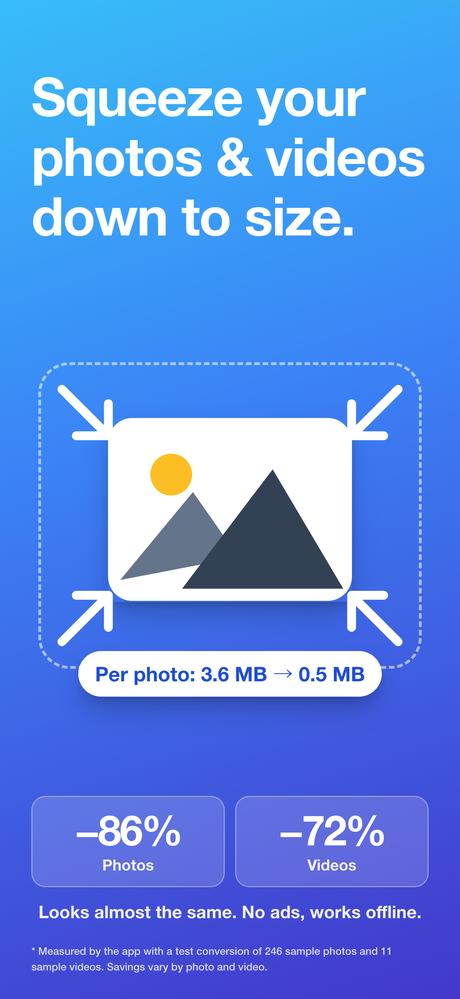
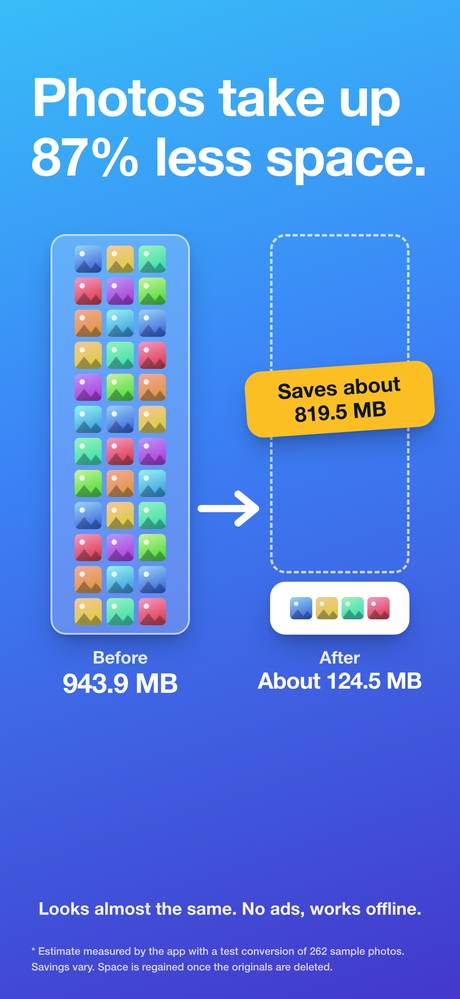
公開中の版に合わせて説明とポリシーを直す（アルバムダイエット 1.4.1 ほか）
- アルバムダイエット: 1.4.1 の新しい機能（変換せずに削除・容量で選ぶ・休みながら変換・写真を画面いっぱいに拡大）を日英に足し、
  画像をストアの今の10枚に。ポリシー（日英）の写真への書き込みの用途に、片付けと削除・アルバムへの入れ直しを書く
- ABループレイ: ポリシー（日英）の動画タブ・タグの自動の書き込み・お気に入りの区間に「1.4 以降」を書き添える（公開中は 1.3.0）。
  説明に、キーも曲ごとに覚える・お気に入りとプレイリスト・書き出し・曲の全体の地図を足す
- 山じたく: 引き返す時刻・「もしものとき」・自分の道具の重さと写真・出発3日前の知らせを足し、作り直しても残る項目を正確に
- 献立: まとめて計画できるのは最大14日分、ごはん・パンと材料費の設定を実装どおりに、iPhone・iPad。
  ポリシー（日英）: 広告の同意の画面はアプリから開き直せないので、変える方法を事実どおりに書く
- 冷凍図鑑: 冷凍庫から今日の一品に「そのまま使えるもの」を足す
- Counter1234: 設定の名前（増加数の設定・購入を復元する）、ポリシーに「広告のプライバシー設定」、iPhone・iPad
- SplitBill: ポリシー（日英）にレートを取り直すタイミング、説明に過去の精算の復元
- トップ（日英）: ABループレイ・山じたくのカードを公開中の機能に、保存先は端末（iCloud で同期するアプリはご自身の iCloud にも）
- サイトマップ: 今日中身が変わったページの lastmod を 2026-10-11 に

diff --git a/albumdiet/index.html b/albumdiet/index.html
@@ -147,14 +147,14 @@
 
 <h2>画面</h2>
 <div class="shots">
-  <a href="shots/01.png"><img src="thumbs/01.jpg" alt="写真も動画も、ぎゅっと小さく" loading="lazy" width="322" height="700"></a>
-  <a href="shots/02.png"><img src="thumbs/02.jpg" alt="押す前に、いくら空くか分かる" loading="lazy" width="322" height="700"></a>
+  <a href="shots/01.png"><img src="thumbs/01.jpg" alt="写真の容量、87%減（見本の写真262枚で試した見込み）。見た目はほとんどそのまま" loading="lazy" width="322" height="700"></a>
+  <a href="shots/02.png"><img src="thumbs/02.jpg" alt="3ステップで、写真を小さく。1枚ずつ選ばなくても、小さくできる写真をまとめて見つけます" loading="lazy" width="322" height="700"></a>
   <a href="shots/03.png"><img src="thumbs/03.jpg" alt="似た写真も、まとめて片付け。残す1枚を選んで、あとはひと押し" loading="lazy" width="322" height="700"></a>
-  <a href="shots/04.png"><img src="thumbs/04.jpg" alt="撮影日から、まとめて選ぶ。日ごと・月ごとにひと押しで" loading="lazy" width="322" height="700"></a>
-  <a href="shots/05.png"><img src="thumbs/05.jpg" alt="見くらべてから、決める。元と小さくしたものを並べて確かめる" loading="lazy" width="322" height="700"></a>
-  <a href="shots/06.png"><img src="thumbs/06.jpg" alt="連写は、1枚だけ残す" loading="lazy" width="322" height="700"></a>
-  <a href="shots/07.png"><img src="thumbs/07.jpg" alt="元を消すかは、あなたが決める。写真は「残す」が最初の設定" loading="lazy" width="322" height="700"></a>
-  <a href="shots/08.png"><img src="thumbs/08.jpg" alt="撮影日も場所も、そのまま" loading="lazy" width="322" height="700"></a>
+  <a href="shots/04.png"><img src="thumbs/04.jpg" alt="撮影日から、まとめて選ぶ。日ごと・月ごとに、ひと押しで" loading="lazy" width="322" height="700"></a>
+  <a href="shots/05.png"><img src="thumbs/05.jpg" alt="見くらべてから、決める。元と小さくしたものを並べて確かめられます" loading="lazy" width="322" height="700"></a>
+  <a href="shots/06.png"><img src="thumbs/06.jpg" alt="連写は、1枚だけ残す。おすすめの1枚を残して片付けます" loading="lazy" width="322" height="700"></a>
+  <a href="shots/07.png"><img src="thumbs/07.jpg" alt="元を消すかは、あなたが決める。写真は「残す」が最初の設定。消しても30日間は戻せます" loading="lazy" width="322" height="700"></a>
+  <a href="shots/08.png"><img src="thumbs/08.jpg" alt="撮影日も場所も、そのまま。写真アプリの並び順や地図もそのままです" loading="lazy" width="322" height="700"></a>
   <a href="shots/09.png"><img src="thumbs/09.jpg" alt="できること、ぜんぶ" loading="lazy" width="322" height="700"></a>
   <a href="shots/10.png"><img src="thumbs/10.jpg" alt="動画も、まとめて軽く" loading="lazy" width="322" height="700"></a>
 </div>
@@ -176,6 +176,19 @@
 やってみたら思ったより減らなかった、という無駄な画質の低下が起きないようにしています。
 </p>
 
+<h2>まとめて選んで、確かめてから変換できます</h2>
+<p>
+自分で選ぶときは、「写真を選んで小さくする」の「写真を選ぶ」「大きい順で」「撮影日で」「アルバムから選ぶ」を使います。
+「容量で選ぶ（○MB以上）」なら、1 MB以上・3 MB以上など、<strong>決めた大きさ以上の写真をまとめて選べます</strong>。
+重い写真を1枚ずつ押して選ばずに済みます。
+</p>
+<p>
+選んだ写真は「1枚ずつ見る」で確かめられます。写真の詳しい画面で写真を押すと、画面いっぱいに拡大して、ピントや細かいところを見られます。
+並べてみて、小さくするより要らなかった写真は、「選んだ写真」の<strong>「変換せずに削除」</strong>でまとめて削除できます。
+消すのは丸印のついた写真だけなので、残したいものは丸印を外してから押します。
+消したものは写真アプリの「最近削除した項目」に30日間残ります。
+</p>
+
 <h2>連写した写真は、1枚だけ残せます</h2>
 <p>
 シャッターを押しっぱなしにして撮った組（バースト）は、写真アプリでは1枚に見えています。
@@ -183,8 +196,8 @@
 </p>
 <p>
 1枚だけ残してあとを消せば、<strong>画質はそのままで</strong>容量が減ります。
-どれを残すかは iPhone のおすすめから選ばれ、1組ずつ見て選び直せます。
-お気に入りと編集した写真は、消さずに守ります。
+残す1枚は、ふだんは iPhone のおすすめから選ばれます（設定で最初の1枚・最後の1枚にもできます）。
+1組ずつ見て選び直すこともできます。お気に入りと編集した写真は、消さずに守ります。
 </p>
 
 <h2>消してよいものも、まとめて見つけます</h2>
@@ -213,7 +226,9 @@
   <li><strong>取り消し</strong>：写真の変換は、あとから取り消せます</li>
   <li><strong>個人情報の削除</strong>：位置情報などを、画質を落とさずに消したコピーを作れます</li>
   <li><strong>似た写真・スクリーンショット・Live Photos</strong>：画質はそのままで、要らない分だけを片付けます</li>
-  <li><strong>選びかた</strong>：撮影日で・大きい順で・アルバムから。一度小さくしたものは選ぶ画面に出しません</li>
+  <li><strong>選びかた</strong>：撮影日で・大きい順で・アルバムから。写真は容量（1 MB以上・3 MB以上など）でもまとめて選べます。一度小さくしたものは選ぶ画面に出しません</li>
+  <li><strong>変換せずに削除</strong>：選んだ写真のうち、小さくするより要らなかったものを、そのまままとめて削除できます</li>
+  <li><strong>休みながら変換</strong>：たくさん続けて変換するときは、「5分ごとに3分休憩しながら進める」で本体を休ませながら進められます</li>
   <li><strong>空きの表示</strong>：いまの iPhone の空きと、このアプリで空けた量。ホーム画面とロック画面のウィジェットでも</li>
   <li><strong>共有ボタン対応</strong>：写真アプリの共有ボタンから直接渡せます</li>
 </ul>
@@ -251,6 +266,13 @@ Pro の購入と確認だけは、iOS の App Store の仕組みを通して App
 <p>
 使えます。「iPhone のストレージを最適化」を有効にしている場合は、原本を
 ダウンロードしてから処理するため、枚数が多いと時間と通信量がかかります。
+</p>
+
+<h3>たくさん続けて変換するとき、本体を休ませられますか</h3>
+<p>
+できます。ふだんは、写真の変換も動画の圧縮も、休まずに本体を動かし続けます。
+変換中の画面で「5分ごとに3分休憩しながら進める」を押すと、5分進めるごとに3分休み、
+休憩が終わると自動で続きから進みます。次の休憩までと休憩の残りは、時計で出ます。
 </p>
 
 <h3>無料でどこまで使えますか</h3>

diff --git a/albumdiet/en/index.html b/albumdiet/en/index.html
@@ -93,14 +93,14 @@ The basics are free (up to 20 photos and 1 video a day), with no ads. Pro, which
 
 <h2>Screens</h2>
 <div class="shots">
-  <a href="shots/01.png"><img src="thumbs/01.jpg" alt="Squeeze your photos &amp; videos down to size" loading="lazy" width="322" height="700"></a>
-  <a href="shots/02.png"><img src="thumbs/02.jpg" alt="Know how much you'll free up before you tap" loading="lazy" width="322" height="700"></a>
+  <a href="shots/01.png"><img src="thumbs/01.jpg" alt="Photos take up 87% less space (estimated with 262 sample photos). Looks almost the same" loading="lazy" width="322" height="700"></a>
+  <a href="shots/02.png"><img src="thumbs/02.jpg" alt="Shrink photos in 3 steps. No need to pick one by one — the app finds photos that can shrink" loading="lazy" width="322" height="700"></a>
   <a href="shots/03.png"><img src="thumbs/03.jpg" alt="Similar shots, tidied at once — keep the best one and tidy the rest" loading="lazy" width="322" height="700"></a>
   <a href="shots/04.png"><img src="thumbs/04.jpg" alt="Pick by date taken — select a whole day or month in one tap" loading="lazy" width="322" height="700"></a>
   <a href="shots/05.png"><img src="thumbs/05.jpg" alt="Compare, then decide — see the original and the smaller version side by side" loading="lazy" width="322" height="700"></a>
-  <a href="shots/06.png"><img src="thumbs/06.jpg" alt="Bursts: keep just one" loading="lazy" width="322" height="700"></a>
-  <a href="shots/07.png"><img src="thumbs/07.jpg" alt="You decide about originals — photos start on “Keep”" loading="lazy" width="322" height="700"></a>
-  <a href="shots/08.png"><img src="thumbs/08.jpg" alt="Date &amp; place stay the same" loading="lazy" width="322" height="700"></a>
+  <a href="shots/06.png"><img src="thumbs/06.jpg" alt="Bursts: keep just one — keep the best shot, tidy up the rest" loading="lazy" width="322" height="700"></a>
+  <a href="shots/07.png"><img src="thumbs/07.jpg" alt="You decide about originals — photos start on “Keep”, and deleted items can be restored for 30 days" loading="lazy" width="322" height="700"></a>
+  <a href="shots/08.png"><img src="thumbs/08.jpg" alt="Date &amp; place stay the same — your Photos order and map stay just as they were" loading="lazy" width="322" height="700"></a>
   <a href="shots/09.png"><img src="thumbs/09.jpg" alt="Everything it can do" loading="lazy" width="322" height="700"></a>
   <a href="shots/10.png"><img src="thumbs/10.jpg" alt="Videos, lighter in bulk" loading="lazy" width="322" height="700"></a>
 </div>
@@ -123,6 +123,21 @@ you've already made smaller are left out of the count from the start.
 <p>
 That way you don't give up quality for nothing, only to find that less space was
 freed than you expected.
+</p>
+
+<h2>Choose in bulk, and check before you convert</h2>
+<p>
+To choose photos yourself, use “Choose photos”, “Largest first”, “By date” or “Choose from albums”
+under “Choose photos to shrink”.
+With “By size (X MB or more)”, you can <strong>select every photo at or above a size you pick</strong> — 1 MB, 3 MB and so on —
+in one go, instead of tapping heavy photos one at a time.
+</p>
+<p>
+You can look over the photos you chose with “View one by one”. On a photo's detail screen, tap the photo to view it
+full screen and zoom in to check the focus and fine detail.
+If some turn out to be photos you'd rather get rid of than shrink, “Delete Without Converting” in “Selected photos”
+deletes them all at once. Only photos whose circle is checked are deleted, so uncheck any you want to keep first.
+Deleted items stay in “Recently Deleted” in the Photos app for 30 days.
 </p>
 
 <h2>Keep just one shot from each burst</h2>
@@ -168,7 +183,9 @@ Without Pro, tidying up in bulk covers 10 items a day. Deleting items one at a t
   <li><strong>Undo</strong>: photo conversions can be undone afterwards</li>
   <li><strong>Remove personal data</strong>: make a copy with location and similar details removed, without lowering the quality</li>
   <li><strong>Similar photos, screenshots, Live Photos</strong>: clear out only what you don't need, with quality unchanged</li>
-  <li><strong>Ways to choose</strong>: by date taken, largest first, or from albums. Anything you've already made smaller isn't shown when choosing</li>
+  <li><strong>Ways to choose</strong>: by date taken, largest first, or from albums. Photos can also be selected in bulk by size (1 MB or more, 3 MB or more and so on). Anything you've already made smaller isn't shown when choosing</li>
+  <li><strong>Delete Without Converting</strong>: delete the selected photos you'd rather get rid of than shrink, all at once</li>
+  <li><strong>Breaks while converting</strong>: for long runs, “Take a 3-min break every 5 min” lets your iPhone rest as it goes</li>
   <li><strong>Free space at a glance</strong>: your iPhone's current free space and how much this app has freed — also as Home Screen and Lock Screen widgets</li>
   <li><strong>Share button</strong>: send photos and videos straight to the app from the Share button in the Photos app</li>
 </ul>
@@ -207,6 +224,13 @@ and there is no server. Only buying Pro, and checking whether you have it, goes 
 <p>
 Yes. If “Optimize iPhone Storage” is turned on, the originals are downloaded before they
 are processed, so a large number of items takes time and uses data.
+</p>
+
+<h3>Can my iPhone take breaks during a long conversion?</h3>
+<p>
+Yes. Normally, converting photos and compressing videos keep your iPhone working without a pause.
+Tap “Take a 3-min break every 5 min” on the converting screen, and it rests for 3 minutes after every 5 minutes of work,
+then picks up where it left off on its own. Clocks show the time until the next break and how much of the break is left.
 </p>
 
 <h3>How much can I do for free?</h3>

diff --git a/ablooplay/en/privacy.html b/ablooplay/en/privacy.html
@@ -79,14 +79,15 @@
 
 
 <h1>Privacy Policy</h1>
-<p class="tagline">ABLooplay (iOS) / Last updated October 10, 2026</p>
+<p class="tagline">ABLooplay (iOS) / Last updated October 11, 2026</p>
 <p class="note">This is an English translation of the <a href="../privacy.html" hreflang="ja">Japanese privacy policy</a>. If the two differ, the Japanese version prevails.</p>
 
 <div class="card">
 <strong>Summary</strong><br>
 ABLooplay <strong>does not collect any information about its users</strong>. Audio files you import and your own videos never leave your device.
 The app goes online <strong>only to search for and download podcasts and to use YouTube videos</strong>, and payment for the paid features (ABLooplay Pro) is handled by Apple.
-There is no account registration, and the app contains no advertising, analytics or tracking.
+There is no account registration, and the app contains no advertising, analytics or tracking.<br>
+The Videos tab (YouTube videos and My Videos), filling in tags automatically, and favorite sections are features of version 1.4 and later. Earlier versions do not have them.
 </div>
 
 <h2>1. Information collected</h2>
@@ -106,7 +107,7 @@ a server run by the developer, and the developer never receives their contents.
   <li><strong>Searching for shows</strong>: the search terms you enter are sent to Apple's search service (iTunes Search API), and a list of shows is received</li>
   <li><strong>Getting episodes</strong>: the RSS feed and audio files of the show you choose are downloaded from that show's publisher. As with any ordinary web connection, your IP address and similar information reach the publisher</li>
 </ul>
-<h3>YouTube videos (YouTube API Services)</h3>
+<h3>YouTube videos (YouTube API Services, version 1.4 and later)</h3>
 <p>
 In the Videos tab, YouTube videos are played with the <strong>YouTube API Services</strong> (YouTube's embedded player).
 By using the features that play YouTube videos, you agree to be bound by the <a href="https://www.youtube.com/t/terms">YouTube Terms of Service</a>.
@@ -131,11 +132,11 @@ so <strong>the app cannot see anything other than what you choose</strong>.
 <ul>
   <li><strong>Copying</strong>: files you choose are copied into the app. This is because, if the app only remembered where a file was, it could no longer be played once the actual iCloud Drive file was removed from the device</li>
   <li><strong>Rewriting</strong>: when you correct the title, artist, album or track number, the tags of the copy inside the app are rewritten. The original file is not touched</li>
-  <li><strong>Filling in tags automatically</strong>: for MP3 files inside the app whose title, artist or album tags (ID3) are empty, the file name and folder names are written into those tags on the device. Only empty fields are written</li>
+  <li><strong>Filling in tags automatically</strong> (version 1.4 and later): for MP3 files inside the app whose title, artist or album tags (ID3) are empty, the file name and folder names are written into those tags on the device. Only empty fields are written</li>
   <li><strong>Location</strong>: files inside the app are visible in the Files app as <em>On My iPhone &gt; ABLooplay</em>. You can take them out at any time</li>
   <li><strong>Music library</strong>: iOS asks for your permission only when you use “From Music Library”. Of the songs you choose, those without copy protection are copied into the app. The contents of your library are never sent outside the device</li>
   <li><strong>Videos</strong>: from a video you choose with “From Videos in Photos” or one shared from another app, <strong>only the audio is extracted</strong>, on the device, and kept in the app. The picture is not kept, and the original video is not touched. Because Photos goes through the iOS picker, the app does not ask for access to your photo library</li>
-  <li><strong>My Videos</strong>: videos (mp4, m4v, mov, 3gp) that you put in the ABLooplay folder with the Files app are listed where they are under “My Videos” in the Videos tab and played only on the device. Their waveforms and thumbnails are also made on the device. Deleting a video from the list also deletes its file</li>
+  <li><strong>My Videos</strong> (version 1.4 and later): videos (mp4, m4v, mov, 3gp) that you put in the ABLooplay folder with the Files app are listed where they are under “My Videos” in the Videos tab and played only on the device. Their waveforms and thumbnails are also made on the device. Deleting a video from the list also deletes its file</li>
   <li><strong>Scripts and subtitles</strong>: the app reads timed text files (LRC) and subtitle files (SRT, VTT) that you choose, and lesson text that you paste in, and keeps their contents only on the device. Sentences you type for dictation are only checked against the script on the device; they are neither saved nor sent</li>
   <li><strong>Exporting</strong>: “Export This Section” and “Export Sections as LRC” only create a file on the device and pass it to the iOS share sheet. You choose where it goes; the app itself never sends it</li>
   <li><strong>Deletion</strong>: when you delete the app, the files imported into it are deleted along with it</li>

diff --git a/yamajitaku/en/index.html b/yamajitaku/en/index.html
@@ -142,10 +142,13 @@ whether that mountain, on that day, is in spring, summer, autumn or winter.
   <li>Three levels — essential, recommended and good to have — plus a one-line note on why each item is on the list</li>
   <li>Set the number of changes of clothes all at once: “no change”, “one set of underwear only” or “change every day”</li>
   <li>An estimate of the weight you carry, checked against your body weight (tent trips use a separate standard)</li>
+  <li>Weigh your own gear once, and later trips use that weight too. Add a photo to an item and a small thumbnail shows in its row (the same photo appears on later trips)</li>
   <li>For 4 nights and 5 days or longer, it points out that the plan has you carrying everything, and shows what you can cut by using hut meals and hut shops</li>
   <li>Meal planning for tent trips. Stack up foods and the weight and calories are totaled</li>
   <li>A climbing plan as a PDF. The mountain name, dates, itinerary and gear come from the trip; you only add the members and emergency contacts</li>
   <li>Decide who you will check in with after the hike and by when, and get a message ready for the person staying behind. A notification comes one hour before the deadline</li>
+  <li>A suggested turnaround time, worked out from that day’s sunset and your walking time. A notification comes at the time you set</li>
+  <li>An “If something happens” (<span lang="ja">もしものとき</span>) screen that fills in, from the trip, what to tell 110 (police) or 119 (fire and ambulance): the mountain, when and where you set out, the day’s plan, the number of people and where the climbing plan was submitted</li>
   <li>Sunrise and sunset for each day, and a guide to when to start walking so you finish in daylight. It can also estimate walking time from a GPX file</li>
   <li>On the day of the trip, “until sunset” and the check-in deadline are shown on the Lock Screen</li>
   <li>A weather forecast adjusted to the summit altitude, and a review of your gear against the forecast (rain, snow, cold, wind)</li>
@@ -173,8 +176,8 @@ Item details and a few other places have links to search results on Amazon, Raku
 <h3>Can I change what is on the packing list?</h3>
 <p>
 Yes. You can freely add and delete items and fix their names and weights. You can add items in each category,
-and register items you type in yourself. Even if you change the conditions and rebuild the list,
-the items you have changed yourself stay as they are.
+and register items you type in yourself. Items whose name, quantity or weight you have changed, items you have checked off,
+and items you typed in yourself stay as they are even if you change the conditions and rebuild the list.
 </p>
 
 <h3>Can I use a mountain that is not in the list?</h3>
@@ -228,6 +231,7 @@ Check that notifications are turned on in the device’s Settings → <span lang
 In the app, also check that “Notify the day before” (<span lang="ja">前日に知らせる</span>) is on under Settings (<span lang="ja">設定</span>) → Before-departure reminders (<span lang="ja">出発前の知らせ</span>). Turning it off stops all the other reminders too, including the check-in deadline and the turnaround time.
 The same section lists the scheduled reminders with their dates and times.
 The day-before reminder is sent for trips that start tomorrow or later. The reminder one hour before the check-in deadline comes on the day you come down, and the turnaround reminder at that time on the day you head for the summit (if you have set a deadline or a time).
+If a trip still has items on the “to buy” (<span lang="ja">買うもの</span>) list, a reminder also comes three days before departure.
 </p>
 
 <h2>A note on safety</h2>

diff --git a/kondate/en/index.html b/kondate/en/index.html
@@ -12,7 +12,7 @@
 </script>
 <meta name="viewport" content="width=device-width, initial-scale=1">
 <title>Kondate Maker_EX — dinner menus and a shopping list</title>
-<meta name="description" content="An iPhone app for deciding today's dinner menu. Menus, favorites, notes and photos are stored on your device, and no account is needed. The app is in Japanese only.">
+<meta name="description" content="An iPhone and iPad app for deciding today's dinner menu. Menus, favorites, notes and photos are stored on your device, and no account is needed. The app is in Japanese only.">
 <link rel="alternate" hreflang="ja" href="https://tatsu456.github.io/kondate/">
 <link rel="alternate" hreflang="en" href="https://tatsu456.github.io/kondate/en/">
 <link rel="alternate" hreflang="x-default" href="https://tatsu456.github.io/kondate/">
@@ -21,7 +21,7 @@
 <meta property="og:locale" content="en_US">
 <meta property="og:url" content="https://tatsu456.github.io/kondate/en/">
 <meta property="og:title" content="Kondate Maker_EX — dinner menus and a shopping list">
-<meta property="og:description" content="An iPhone app for deciding today&#x27;s dinner menu. Menus, favorites, notes and photos are stored on your device, and no account is needed. The app is in Japanese only.">
+<meta property="og:description" content="An iPhone and iPad app for deciding today&#x27;s dinner menu. Menus, favorites, notes and photos are stored on your device, and no account is needed. The app is in Japanese only.">
 <meta property="og:image" content="https://tatsu456.github.io/assets/icon-kondate.png">
 <meta name="twitter:card" content="summary">
 <link rel="stylesheet" href="/assets/style.css?v=12234de5d0">
@@ -116,10 +116,10 @@ All 1,500 recipes are built into the app, so it works offline too.
 <h2>What it does</h2>
 <ul>
   <li>Makes a menu with one tap. Keep a dish you like and redraw only the rest</li>
-  <li>Plans any number of days at once, and makes the shopping list at the same time</li>
+  <li>Plans up to 14 days at once, and makes the shopping list at the same time</li>
   <li>Calculates a rough ingredient cost and cost ratio automatically (the cost ratio roughly shows what the ingredients cost as a share of buying the same dishes ready-made or eating out)</li>
-  <li>Lets you set the balance of plain rice and bread, and how strongly to favor seasonal ingredients</li>
-  <li>Also lets you set ingredients not to use (allergies or things you dislike), cuisines to avoid, and a limit on ingredient cost per person per day</li>
+  <li>Lets you set the balance of plain and mixed rice, how often bread comes with a Western-style main dish, and how strongly to favor seasonal ingredients</li>
+  <li>Also lets you set ingredients not to use (allergies or things you dislike), cuisines and main ingredients to avoid, a time limit for cooking the main dish, and a target ingredient cost per person per day</li>
   <li>Finds menus in reverse, starting from an ingredient that's on sale</li>
   <li>Keeps your own notes and photos for each recipe</li>
   <li>The first time you open the app, a usage guide walks you through it while you try the screens yourself</li>

diff --git a/kondate/index.html b/kondate/index.html
@@ -11,7 +11,7 @@
   gtag('config', 'G-MMGJW4XELK');
 </script>
 <meta name="viewport" content="width=device-width, initial-scale=1">
-<meta name="description" content="今日の晩ごはんの献立を決めるiPhoneアプリ。献立・お気に入り・メモ・写真は端末内に保存され、アカウント登録は要りません。">
+<meta name="description" content="今日の晩ごはんの献立を決めるiPhone・iPadアプリ。献立・お気に入り・メモ・写真は端末内に保存され、アカウント登録は要りません。">
 <title>献立メーカー_EX｜晩ごはんの献立と買い物リスト</title>
 <link rel="alternate" hreflang="ja" href="https://tatsu456.github.io/kondate/">
 <link rel="alternate" hreflang="en" href="https://tatsu456.github.io/kondate/en/">
@@ -21,7 +21,7 @@
 <meta property="og:locale" content="ja_JP">
 <meta property="og:url" content="https://tatsu456.github.io/kondate/">
 <meta property="og:title" content="献立メーカー_EX｜晩ごはんの献立と買い物リスト">
-<meta property="og:description" content="今日の晩ごはんの献立を決めるiPhoneアプリ。献立・お気に入り・メモ・写真は端末内に保存され、アカウント登録は要りません。">
+<meta property="og:description" content="今日の晩ごはんの献立を決めるiPhone・iPadアプリ。献立・お気に入り・メモ・写真は端末内に保存され、アカウント登録は要りません。">
 <meta property="og:image" content="https://tatsu456.github.io/assets/icon-kondate.png">
 <meta name="twitter:card" content="summary">
 <link rel="stylesheet" href="/assets/style.css?v=12234de5d0">
@@ -162,10 +162,10 @@
 <h2>できること</h2>
 <ul>
   <li>献立をワンタップで作成。気に入った一品は残して、それ以外だけ引き直せます</li>
-  <li>何日分でもまとめて計画でき、買い物リストが同時にできあがります</li>
+  <li>最大14日分までまとめて計画でき、買い物リストが同時にできあがります</li>
   <li>材料費と原価率の目安を自動で計算します</li>
-  <li>白ごはんとパンの割合、旬をどれくらい優先するかを設定できます</li>
-  <li>使わない食材（アレルギーや苦手なもの）・避けたいジャンル・1人1日の材料費の上限も決められます</li>
+  <li>白ごはんと混ぜご飯の割合、洋食の日にパンを出す割合、旬をどれくらい優先するかを設定できます</li>
+  <li>使わない食材（アレルギーや苦手なもの）・避けたいジャンルや主材料・主菜の調理時間の上限・1人1日の材料費の目安も決められます</li>
   <li>安売りしている食材から、逆引きで献立を探せます</li>
   <li>レシピごとに自分のメモや写真を残せます</li>
   <li>はじめて開いたときは、画面をさわりながら覚えられる使い方ガイドが案内します</li>

diff --git a/index.html b/index.html
@@ -157,7 +157,7 @@ Takayuki Takemoto と申します。アプリを作っています。
 「これができない」と言われても、それが主目的でなければ足さないことがあります。</p>
 
 <p><strong>入力したものは、できるかぎり端末から出さない。</strong>
-記録・メモ・写真は、原則としてお使いの端末の中だけに保存しています。
+記録・メモ・写真は、原則としてお使いの端末の中に保存しています（iCloud で同期するアプリでは、ご自身の iCloud にも）。
 アカウント登録を求めるアプリもありません。
 外部と通信する場合は、何をどこへ送るのかを各アプリのプライバシーポリシーに書いています。</p>
 
@@ -201,6 +201,8 @@ Takayuki Takemoto と申します。アプリを作っています。
     同じ山でも、6月の残雪期と10月の初冠雪の前後では持つべきものが変わります。
     山じたくは標高と時期からリストを組み立て、
     季節の変わり目にあたるときは警告を出します。
+    山行の内容から登山計画書を PDF で作り、下山連絡の期限と引き返す時刻は通知でお知らせします。
+    明るいうちに歩き終えるための、歩き出しの目安も出します。
     </p>
     <p>
     天気予報も同じ画面で確認できます。
@@ -267,7 +269,10 @@ Takayuki Takemoto と申します。アプリを作っています。
     </p>
     <p>
     速さは 0.5 倍から 2 倍まで、音の高さは変わりません。くりかえしの合間には休み（はじめは 0.5 秒）が
-    入るので、聞いたすぐあとに自分でも言ってみられます。語学の発音練習にも、楽器の耳コピにも。
+    入るので、聞いたすぐあとに自分でも言ってみられます。
+    聞き取れなかった文は、A・B を押さなくても「いまの文をくりかえす」のボタン1つでくりかえせます。
+    まねして言った声を録って、お手本と聞き比べることもできます。
+    語学の発音練習にも、楽器の耳コピにも。
     ふだんの音楽プレイヤーとしても使えて、
     曲に書かれている情報からアーティストとアルバムで並べ、その情報をアプリの中から直せます。
     基本の練習は無料で、広告はありません。文ごとの自動の区切り・区間をいくつでも・イコライザは

diff --git a/counter1234/index.html b/counter1234/index.html
@@ -11,7 +11,7 @@
   gtag('config', 'G-MMGJW4XELK');
 </script>
 <meta name="viewport" content="width=device-width, initial-scale=1">
-<meta name="description" content="画面を見なくても数えられるiPhone用カウンター。音量ボタンで加算・減算でき、増減の幅も指定できます。数え場所を名前を付けて複数保存できます。">
+<meta name="description" content="画面を見なくても数えられるカウンター（iPhone・iPad）。音量ボタンで加算・減算でき、増減の幅も指定できます。数え場所は名前を付けて最大100件まで保存できます。">
 <title>Counter1234｜画面を見ずに数えるカウンター</title>
 <link rel="alternate" hreflang="ja" href="https://tatsu456.github.io/counter1234/">
 <link rel="alternate" hreflang="en" href="https://tatsu456.github.io/counter1234/en/">
@@ -21,7 +21,7 @@
 <meta property="og:locale" content="ja_JP">
 <meta property="og:url" content="https://tatsu456.github.io/counter1234/">
 <meta property="og:title" content="Counter1234｜画面を見ずに数えるカウンター">
-<meta property="og:description" content="画面を見なくても数えられるiPhone用カウンター。音量ボタンで加算・減算でき、増減の幅も指定できます。数え場所を名前を付けて複数保存できます。">
+<meta property="og:description" content="画面を見なくても数えられるカウンター（iPhone・iPad）。音量ボタンで加算・減算でき、増減の幅も指定できます。数え場所は名前を付けて最大100件まで保存できます。">
 <meta property="og:image" content="https://tatsu456.github.io/assets/icon-counter1234.png">
 <meta name="twitter:card" content="summary">
 <link rel="stylesheet" href="/assets/style.css?v=12234de5d0">
@@ -194,7 +194,7 @@
 <h3>音量ボタンで数えられません</h3>
 <p>
 設定画面の「物理ボタンの有効化」で、音量アップ／ダウンがそれぞれ入になっているか確かめてください。
-どちらも切のままだと反応しません。押したときにいくつ増減するかは、設定のステップの欄で決められます。
+どちらも切のままだと反応しません。押したときにいくつ増減するかは、同じ設定画面の「増加数の設定」で決められます。
 </p>
 
 <h3>広告を消したい</h3>
